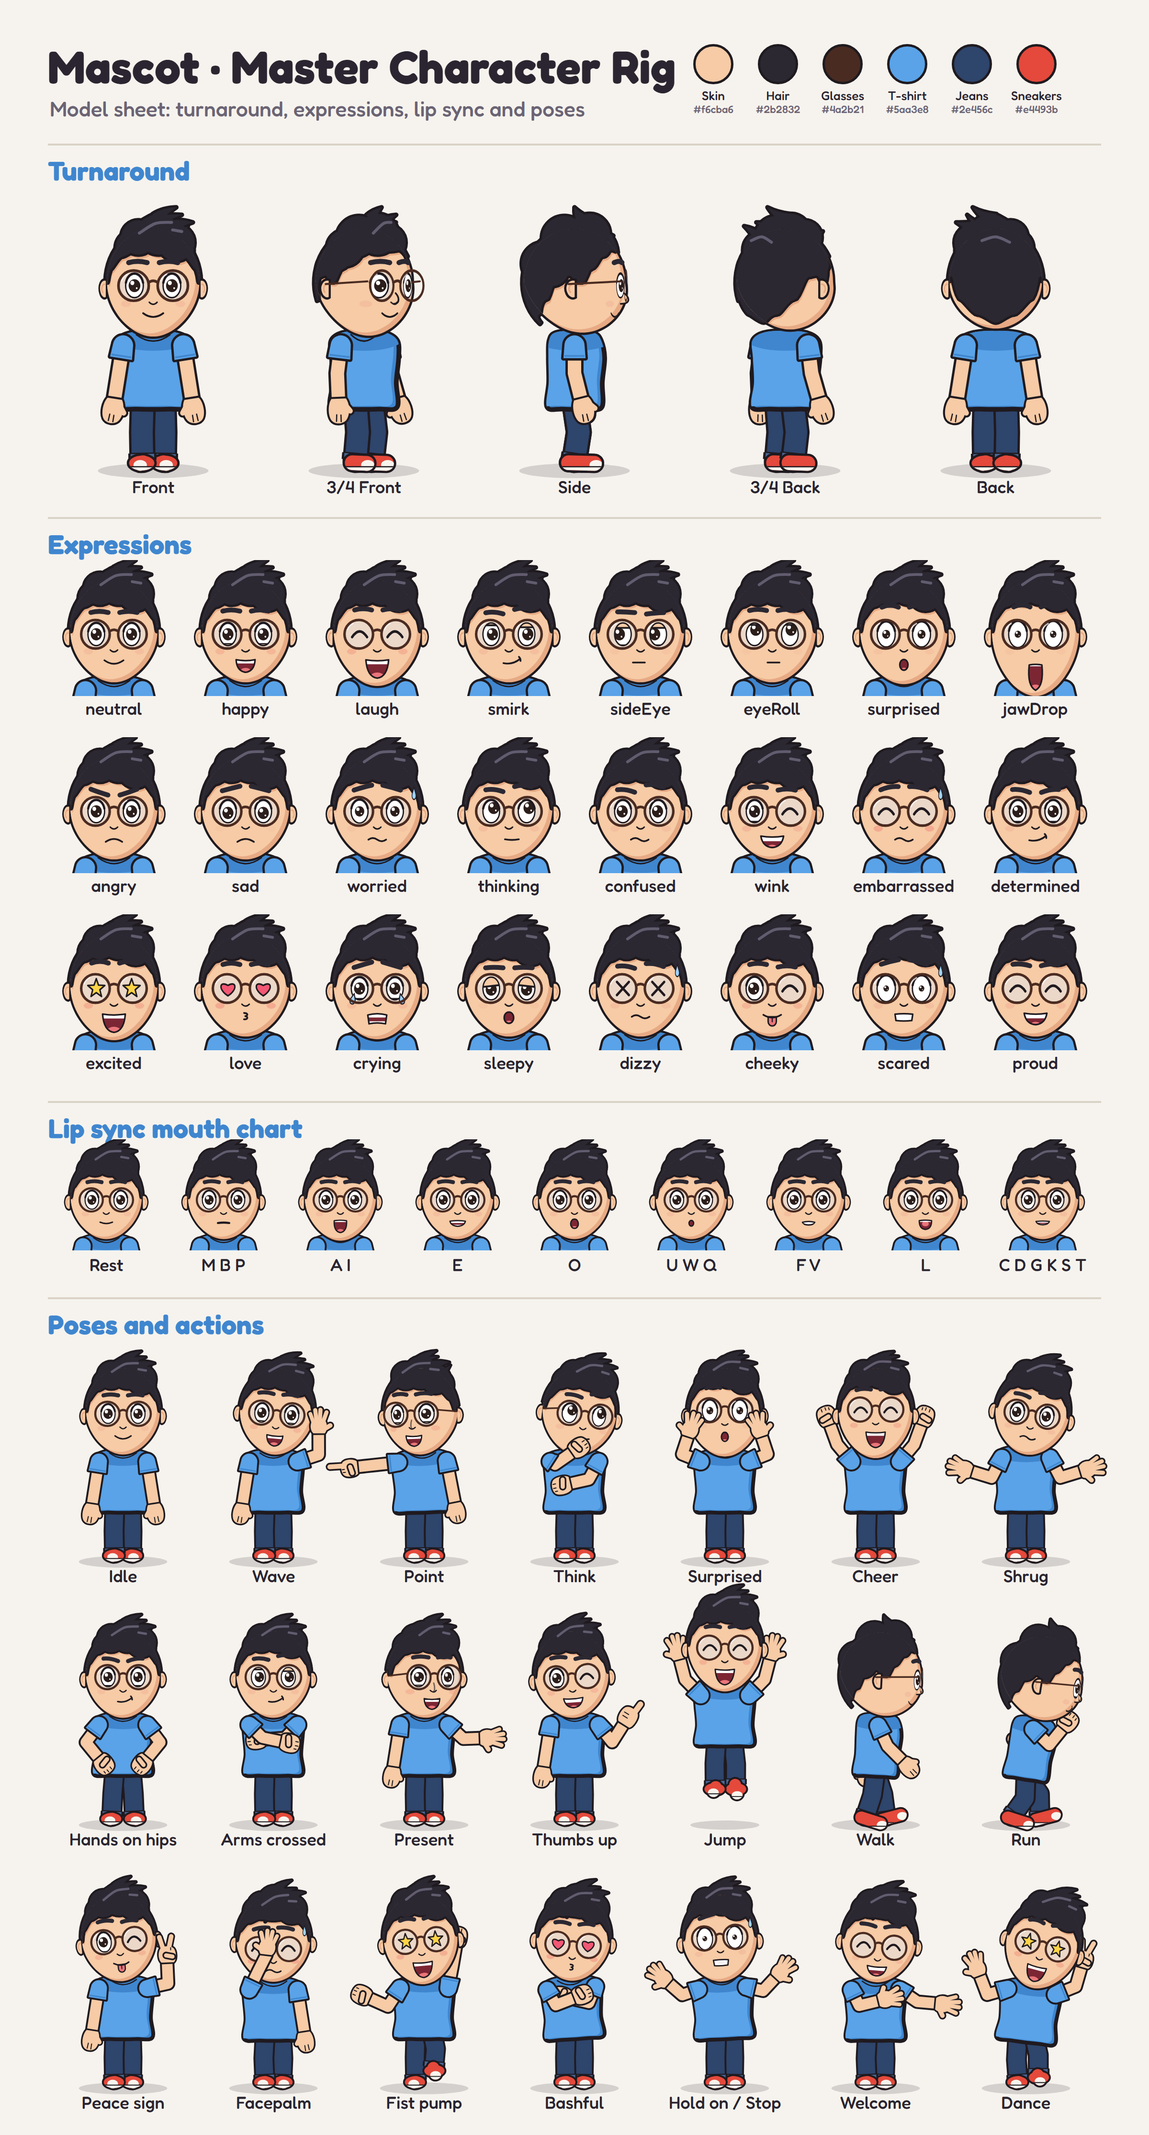
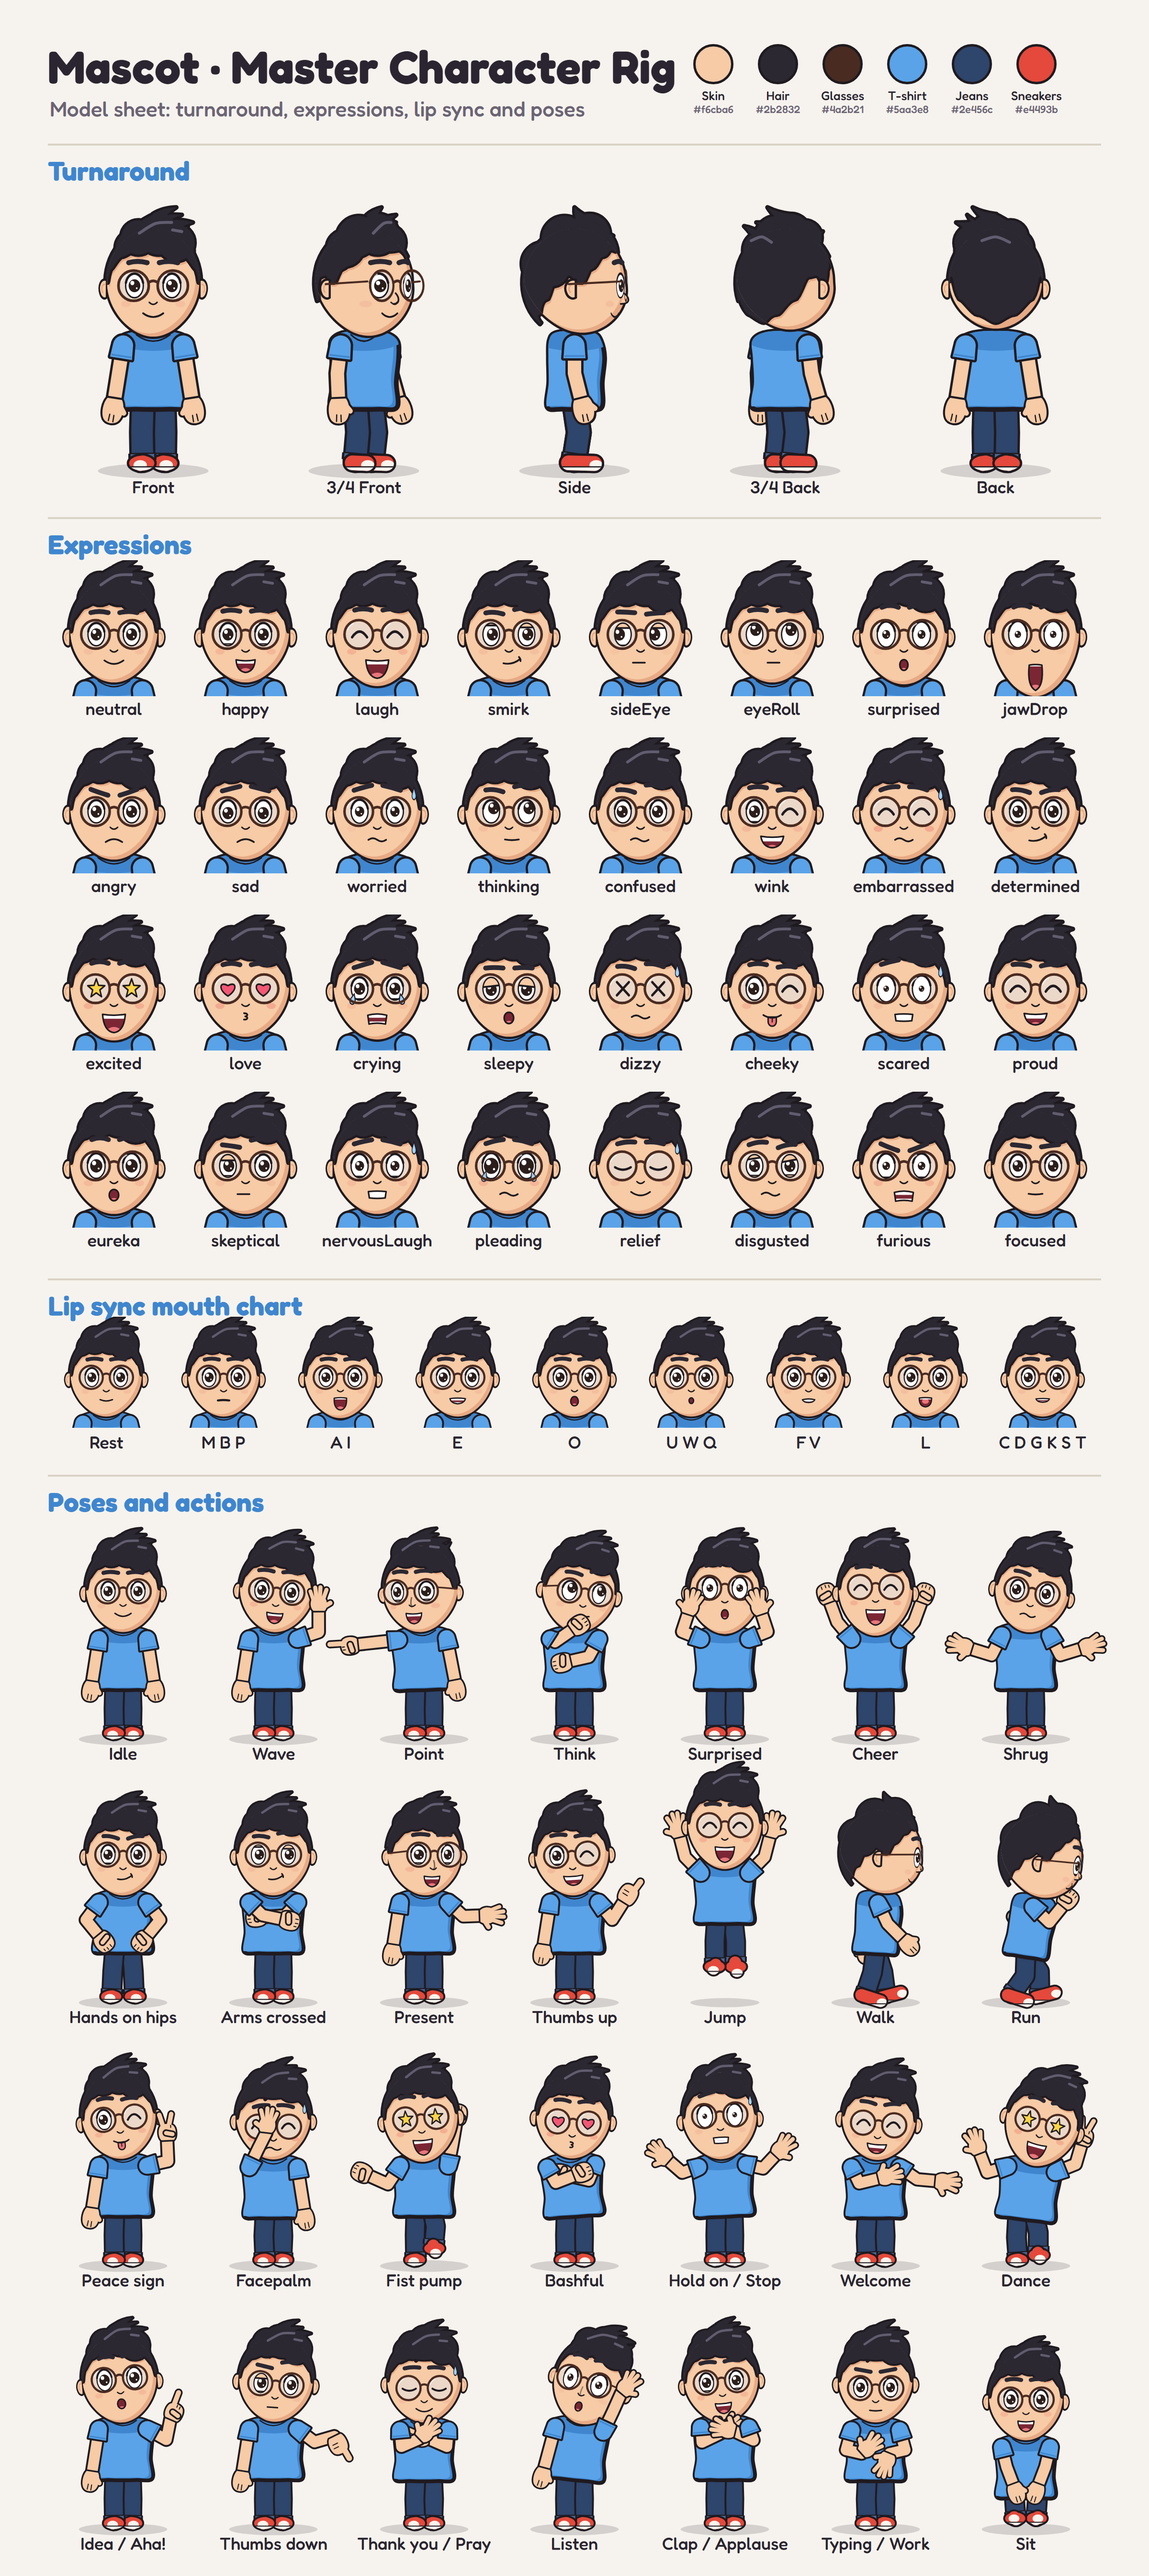
feat: add 2d cartoon character rig and remotion animation skill

diff --git a/character/presets.ts b/character/presets.ts
@@ -197,6 +197,63 @@ export const EXPRESSIONS = {
 		mouth: 'grin',
 		blush: 0.45,
 	}),
+	eureka: face({
+		...both(eye({open: 1.18, pupil: 1.1})),
+		...brows(brow({raise: 0.8, curve: 0.7})),
+		mouth: 'oh',
+		blush: 0.5,
+	}),
+	skeptical: face({
+		eyeL: eye({open: 0.95}),
+		eyeR: eye({open: 0.52, lower: 0.28}),
+		browL: brow({raise: 0.7, curve: 0.55}),
+		browR: brow({raise: -0.35, tilt: -14, curve: 0.1}),
+		lookX: 0.25,
+		mouth: 'flat',
+		mouthX: -0.25,
+	}),
+	nervousLaugh: face({
+		...both(eye({open: 1.08, lower: 0.25, pupil: 0.82})),
+		...brows(brow({raise: 0.4, tilt: 22, curve: 0.1})),
+		mouth: 'clench',
+		blush: 0.45,
+		sweat: 1,
+	}),
+	pleading: face({
+		...both(eye({open: 1.22, pupil: 1.32, tilt: -10})),
+		...brows(brow({raise: 0.45, tilt: 22, curve: 0.2})),
+		mouth: 'wavy',
+		blush: 0.65,
+		tears: 0.85,
+	}),
+	relief: face({
+		...both(eye({shape: 'closed'})),
+		...brows(brow({raise: 0.2, tilt: 10, curve: 0.35})),
+		mouth: 'smile',
+		blush: 0.35,
+		sweat: 1,
+	}),
+	disgusted: face({
+		eyeL: eye({open: 0.5, lower: 0.35, tilt: 10}),
+		eyeR: eye({open: 0.65, lower: 0.3, tilt: -8}),
+		browL: brow({raise: -0.35, tilt: -18}),
+		browR: brow({raise: 0.1, tilt: 14}),
+		mouth: 'wavy',
+		mouthX: -0.2,
+		blush: 0,
+	}),
+	furious: face({
+		...both(eye({open: 1.15, lower: 0.2, tilt: 26, pupil: 0.68})),
+		...brows(brow({raise: -0.55, tilt: -34, curve: 0})),
+		mouth: 'shout',
+		blush: 0.7,
+	}),
+	focused: face({
+		...both(eye({open: 0.88, lower: 0.18, tilt: 6, pupil: 0.95})),
+		...brows(brow({raise: -0.3, tilt: -12, curve: 0.1})),
+		mouth: 'neutral',
+		blush: 0,
+	}),
 } satisfies Record<string, FaceSpec>;
 
 export type ExpressionName = keyof typeof EXPRESSIONS;
@@ -322,6 +379,49 @@ export const POSES = {
 		lean: 7,
 		crouch: 12,
 		headTilt: 8,
+	}),
+	idea: pose({
+		armL: {lift: 62, swing: 15, bend: 108, twist: 90, hand: 'point', handRoll: 12, layer: 'front'},
+		headTilt: -5,
+		headNod: -4,
+	}),
+	thumbsDown: pose({
+		armL: {lift: 55, swing: 22, bend: 52, twist: 90, hand: 'thumbsUp', handRoll: 80, handFlip: true, layer: 'front'},
+		headTilt: 4,
+		headNod: 4,
+	}),
+	pray: pose({
+		armL: {target: [18, -340, 85], pole: [1, 0.7, -0.2], hand: 'open', handRoll: -20, layer: 'front'},
+		armR: {target: [18, -340, 85], pole: [1, 0.7, -0.2], hand: 'open', handRoll: -20, layer: 'front'},
+		headNod: 8,
+		crouch: 4,
+	}),
+	listen: pose({
+		armL: {target: [142, -525, 30], pole: [1, 0.5, -0.3], hand: 'open', handRoll: 15, layer: 'front'},
+		lean: 6,
+		headTilt: 10,
+		headYaw: -10,
+	}),
+	clap: pose({
+		armL: {target: [38, -360, 85], pole: [1, 0.5, -0.2], hand: 'open', handRoll: -12, layer: 'front'},
+		armR: {target: [18, -352, 85], pole: [1, 0.6, -0.2], hand: 'open', handRoll: -12, layer: 'front'},
+		wave: {arm: 'L', amount: 14, rate: 4.5},
+		headTilt: -5,
+		shrug: 6,
+	}),
+	typing: pose({
+		armL: {target: [52, -285, 85], pole: [1, 0.3, -0.5], hand: 'open', handRoll: -55, layer: 'front'},
+		armR: {target: [52, -285, 85], pole: [1, 0.3, -0.5], hand: 'open', handRoll: -55, layer: 'front'},
+		headNod: 8,
+		crouch: 4,
+		wave: {arm: 'L', amount: 8, rate: 6},
+	}),
+	sit: pose({
+		armL: {target: [48, -235, 75], pole: [1, 0.3, -0.4], hand: 'relaxed', layer: 'front'},
+		armR: {target: [48, -235, 75], pole: [1, 0.3, -0.4], hand: 'relaxed', layer: 'front'},
+		legL: {x: 38, h: 15, z: 75, pitch: 8},
+		legR: {x: 38, h: 15, z: 75, pitch: 8},
+		crouch: 68,
 	}),
 } satisfies Record<string, PoseSpec>;
 

diff --git a/src/ModelSheet.tsx b/src/ModelSheet.tsx
@@ -49,6 +49,13 @@ const ACTIONS: readonly [string, CharacterProps][] = [
 	['Hold on / Stop', {pose: 'stop', expression: 'scared'}],
 	['Welcome', {pose: 'welcome', expression: 'proud'}],
 	['Dance', {pose: 'dance', expression: 'excited'}],
+	['Idea / Aha!', {pose: 'idea', expression: 'eureka'}],
+	['Thumbs down', {pose: 'thumbsDown', expression: 'skeptical'}],
+	['Thank you / Pray', {pose: 'pray', expression: 'relief'}],
+	['Listen', {pose: 'listen', expression: 'surprised'}],
+	['Clap / Applause', {pose: 'clap', expression: 'happy'}],
+	['Typing / Work', {pose: 'typing', expression: 'focused'}],
+	['Sit', {pose: 'sit', expression: 'happy'}],
 ];
 
 const SWATCHES: readonly [string, string][] = [
@@ -163,26 +170,26 @@ export const ModelSheet: React.FC = () => {
 				);
 			})}
 
-			<Section y={2300}>Lip sync mouth chart</Section>
+			<Section y={2670}>Lip sync mouth chart</Section>
 			{MOUTH_CHART.map(([shape, label], i) => (
 				<React.Fragment key={shape}>
 					<Cell
 						x={col(i, 9)}
-						y={2380}
+						y={2750}
 						w={232}
 						h={232}
 						props={{mouth: shape, framing: 'head', autoBlink: false}}
 					/>
-					<Label x={col(i, 9)} y={2620}>
+					<Label x={col(i, 9)} y={2990}>
 						{label}
 					</Label>
 				</React.Fragment>
 			))}
 
-			<Section y={2710}>Poses and actions</Section>
+			<Section y={3080}>Poses and actions</Section>
 			{ACTIONS.map(([label, props], i) => {
 				const x = col(i % 7, 7);
-				const y = 2780 + Math.floor(i / 7) * 550;
+				const y = 3150 + Math.floor(i / 7) * 550;
 				return (
 					<React.Fragment key={label}>
 						<Cell x={x} y={y} w={470} h={504} props={{...props, autoBlink: false}} />

diff --git a/src/Root.tsx b/src/Root.tsx
@@ -33,7 +33,7 @@ export const RemotionRoot: React.FC = () => {
         id="ModelSheet"
         component={ModelSheet}
         width={2400}
-        height={4460}
+        height={5380}
       />
     </Folder>
   );

diff --git a/.agents/skills/remotion-2d-cartoon/SKILL.md b/.agents/skills/remotion-2d-cartoon/SKILL.md
@@ -71,12 +71,12 @@ export const CartoonScene: React.FC = () => {
 - Available `framing` options: `'full'` (full body), `'bust'` (head + chest), `'head'` (head only).
 - **Important CLI note on Windows**: Never name a `<Composition id="Character" />` as it conflicts with the `character/` directory on Windows CLI renders.
 
-### Available Expressions (24 Presets)
-`neutral` · `happy` · `laugh` · `smirk` · `sideEye` · `eyeRoll` · `surprised` · `jawDrop` · `angry` · `sad` · `worried` · `thinking` · `confused` · `wink` · `embarrassed` · `determined` · `excited` · `love` · `crying` · `sleepy` · `dizzy` · `cheeky` · `scared` · `proud`
+### Available Expressions (32 Presets)
+`neutral` · `happy` · `laugh` · `smirk` · `sideEye` · `eyeRoll` · `surprised` · `jawDrop` · `angry` · `sad` · `worried` · `thinking` · `confused` · `wink` · `embarrassed` · `determined` · `excited` · `love` · `crying` · `sleepy` · `dizzy` · `cheeky` · `scared` · `proud` · `eureka` · `skeptical` · `nervousLaugh` · `pleading` · `relief` · `disgusted` · `furious` · `focused`
 
-### Available Poses (21 Presets) & Locomotion
+### Available Poses (28 Presets) & Locomotion
 - **Static / Action Poses (`pose` / `poseTo`)**:
-  `idle` · `wave` · `point` (points left) · `pointRight` · `pointUp` · `think` · `surprised` · `cheer` · `shrug` · `handsOnHips` · `armsCrossed` · `present` · `thumbsUp` · `jump` · `peace` · `facepalm` · `fistPump` · `bashful` · `stop` · `welcome` · `dance`
+  `idle` · `wave` · `point` (points left) · `pointRight` · `pointUp` · `think` · `surprised` · `cheer` · `shrug` · `handsOnHips` · `armsCrossed` · `present` · `thumbsUp` · `jump` · `peace` · `facepalm` · `fistPump` · `bashful` · `stop` · `welcome` · `dance` · `idea` · `thumbsDown` · `pray` · `listen` · `clap` · `typing` · `sit`
 - **Locomotion (`motion`)**:
   - `'idle'` (gentle breathing)
   - `'still'` (completely frozen)

diff --git a/character/README.md b/character/README.md
@@ -57,13 +57,13 @@ import {Character} from '../character';
 | `framing` | `'full'` | `full` (seluruh badan), `bust` (kepala + dada), `head` (kepala saja). |
 | `seed` | `'mascot'` | Ubah jika ada 2 karakter dalam satu frame, supaya kedip/bicaranya tidak kembar. |
 
-## Ekspresi (24)
+## Ekspresi (32)
 
-`neutral` · `happy` · `laugh` · `smirk` · `sideEye` · `eyeRoll` · `surprised` · `jawDrop` · `angry` · `sad` · `worried` · `thinking` · `confused` · `wink` · `embarrassed` · `determined` · `excited` · `love` · `crying` · `sleepy` · `dizzy` · `cheeky` · `scared` · `proud`
+`neutral` · `happy` · `laugh` · `smirk` · `sideEye` · `eyeRoll` · `surprised` · `jawDrop` · `angry` · `sad` · `worried` · `thinking` · `confused` · `wink` · `embarrassed` · `determined` · `excited` · `love` · `crying` · `sleepy` · `dizzy` · `cheeky` · `scared` · `proud` · `eureka` · `skeptical` · `nervousLaugh` · `pleading` · `relief` · `disgusted` · `furious` · `focused`
 
-## Pose (21) dan gerak
+## Pose (28) dan gerak
 
-`idle` · `wave` (melambai otomatis) · `point` (menunjuk ke kiri layar) · `pointRight` · `pointUp` · `think` · `surprised` · `cheer` · `shrug` · `handsOnHips` · `armsCrossed` · `present` · `thumbsUp` · `jump` · `peace` · `facepalm` · `fistPump` · `bashful` · `stop` · `welcome` · `dance`
+`idle` · `wave` (melambai otomatis) · `point` (menunjuk ke kiri layar) · `pointRight` · `pointUp` · `think` · `surprised` · `cheer` · `shrug` · `handsOnHips` · `armsCrossed` · `present` · `thumbsUp` · `jump` · `peace` · `facepalm` · `fistPump` · `bashful` · `stop` · `welcome` · `dance` · `idea` · `thumbsDown` · `pray` · `listen` · `clap` · `typing` · `sit`
 
 Ditambah `motion="walk"`, `motion="run"`, dan `motion="dance"`.
 
